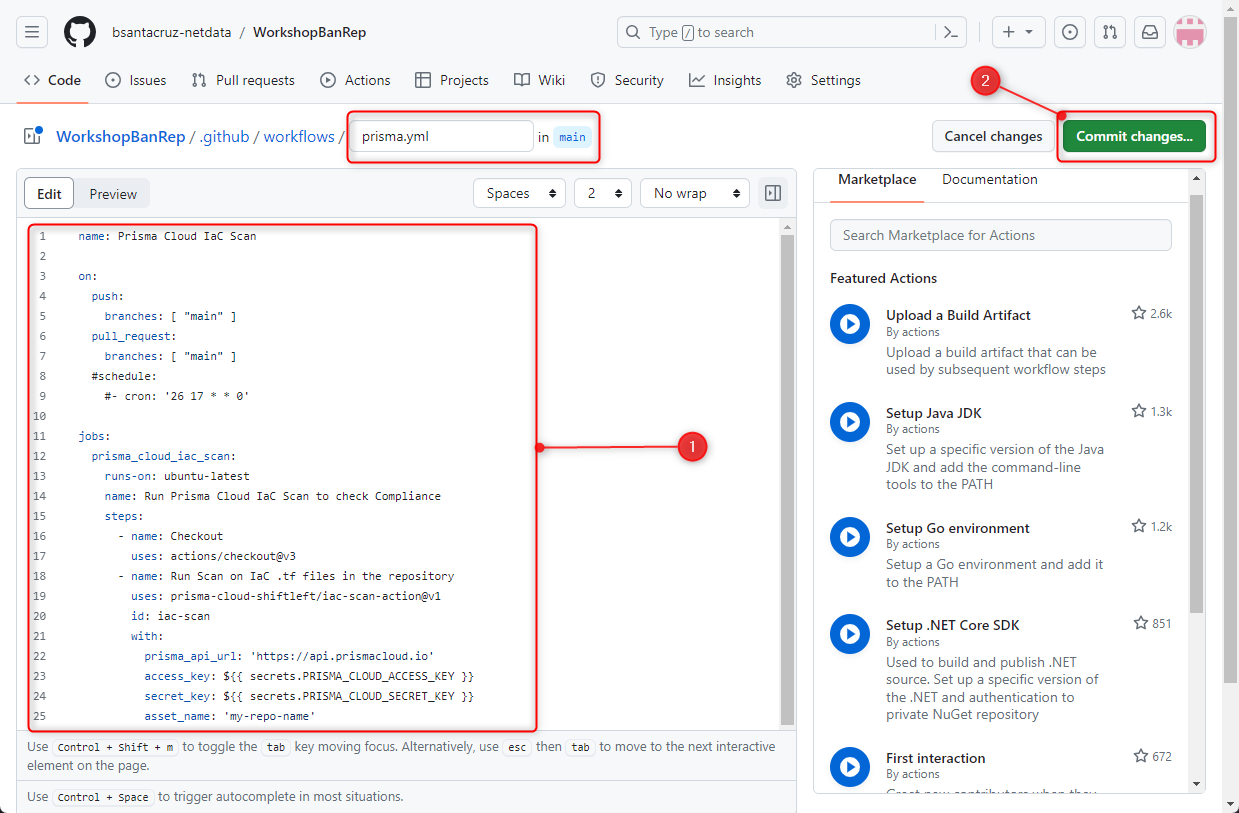
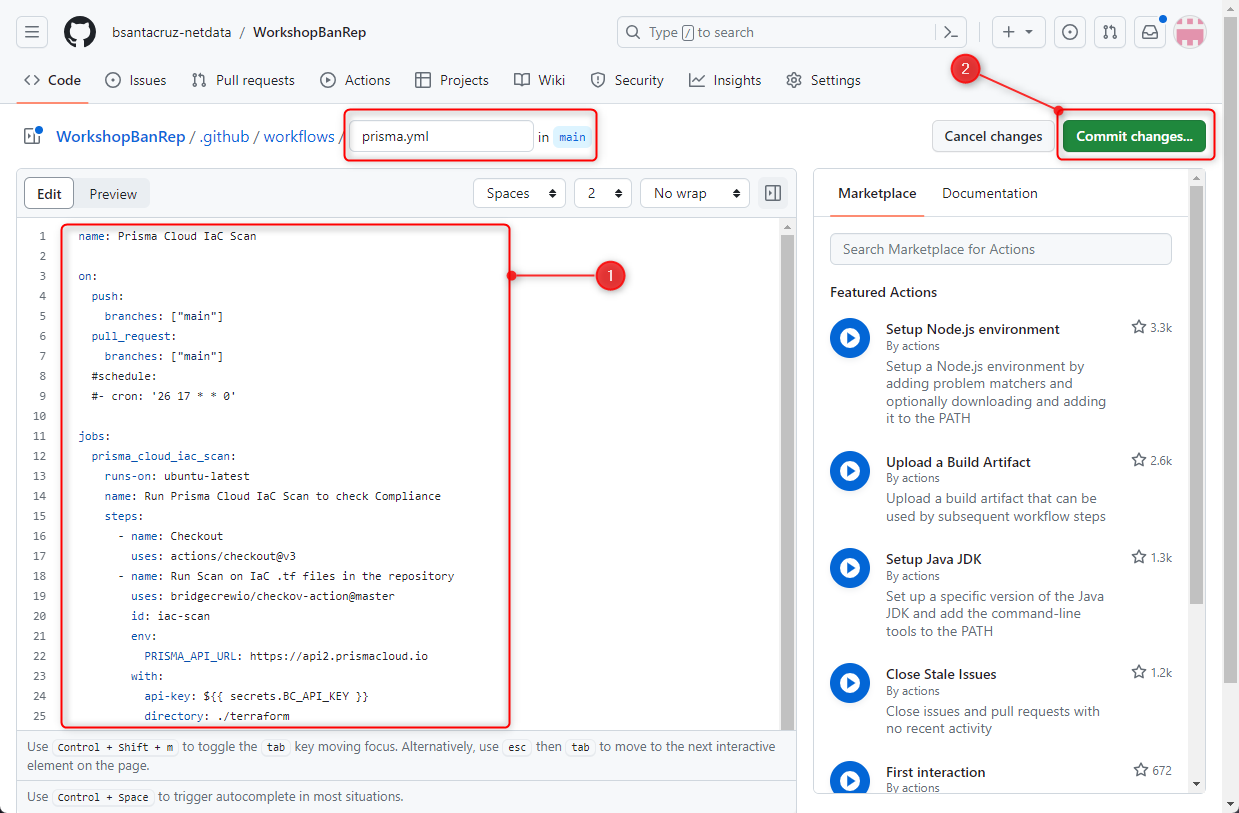
Code Security Finished

diff --git a/README.md b/README.md
@@ -90,15 +90,12 @@ _`Nota: Asegúrese de establecer una expiración para la access key, esta es la 
 
 3. En su nuevo repositorio, seleccionar las siguientes opciones **Settings >> Secrets and variables >> Actions >> New repository secret** y crear las siguientes variables en GitHub:
 
-- `Name: PRISMA_CLOUD_ACCESS_KEY`
-- `Secret: Your_Prisma_Cloud_Access_Key_Value`
-
-- `Name: PRISMA_CLOUD_SECRET_KEY`
-- `Secret: Your_Prisma_Cloud_Secret_Key_Value`
+- `Name: BC_API_KEY `
+- `Secret: AccessKey::SecretKey`
 
   ![Create Secrets in GitHub](./images/GitHub_Secrets.png)
 
-_`Nota: Asegúrese de no incluir espacios en blanco en el secret`_
+_`Nota: Asegúrese de no incluir espacios en blanco en el secret y de separar los dos valores por los caracteres "::"`_
 
 4. Configurar el Workflow de GitHub Actions para escanear los archivos de terraform del directorio `./terraform`, para ello seleccione **Actions >> Buscar Prisma Cloud >> Configure**
    ![Prisma Cloud Workflow](./images/GitHub_Prisma.png)
@@ -145,3 +142,6 @@ _`Nota: el código anterior también está disponible en el archivo ./workflow.y
 Toda la información para configuración de la tarea de escaneo IaC de Prisma puede encontrarla en [este enlace](https://github.com/bridgecrewio/checkov-action) y el command reference completo lo puede encontrar en [este enlace.](https://www.checkov.io/2.Basics/CLI%20Command%20Reference.html)
 
 6. Realice un commit o push cualquiera dentro del repositorio, puede abrir el archivo `./README.md` y agregar al final del archivo una linea de texto cualquiera y realizar el commit de los cambios para disparar el Pipeline de escaneo de los archivos de terraform.
+
+7. En cada evento push en el repositorio se va a correr la tarea de escaneo IaC de Prisma Cloud, si desea ver los resultados del escaneo, puede ir a **Actions y seleccionar el último workflow** Al final puede encontrar el enlace directo a Prisma Cloud para ver los hallazgos en Prisma Cloud, pero también los va a encontrar en el mismo output del CLI.
+   ![GitHub Actions Results](./images/GitHubActions_Results.png)
